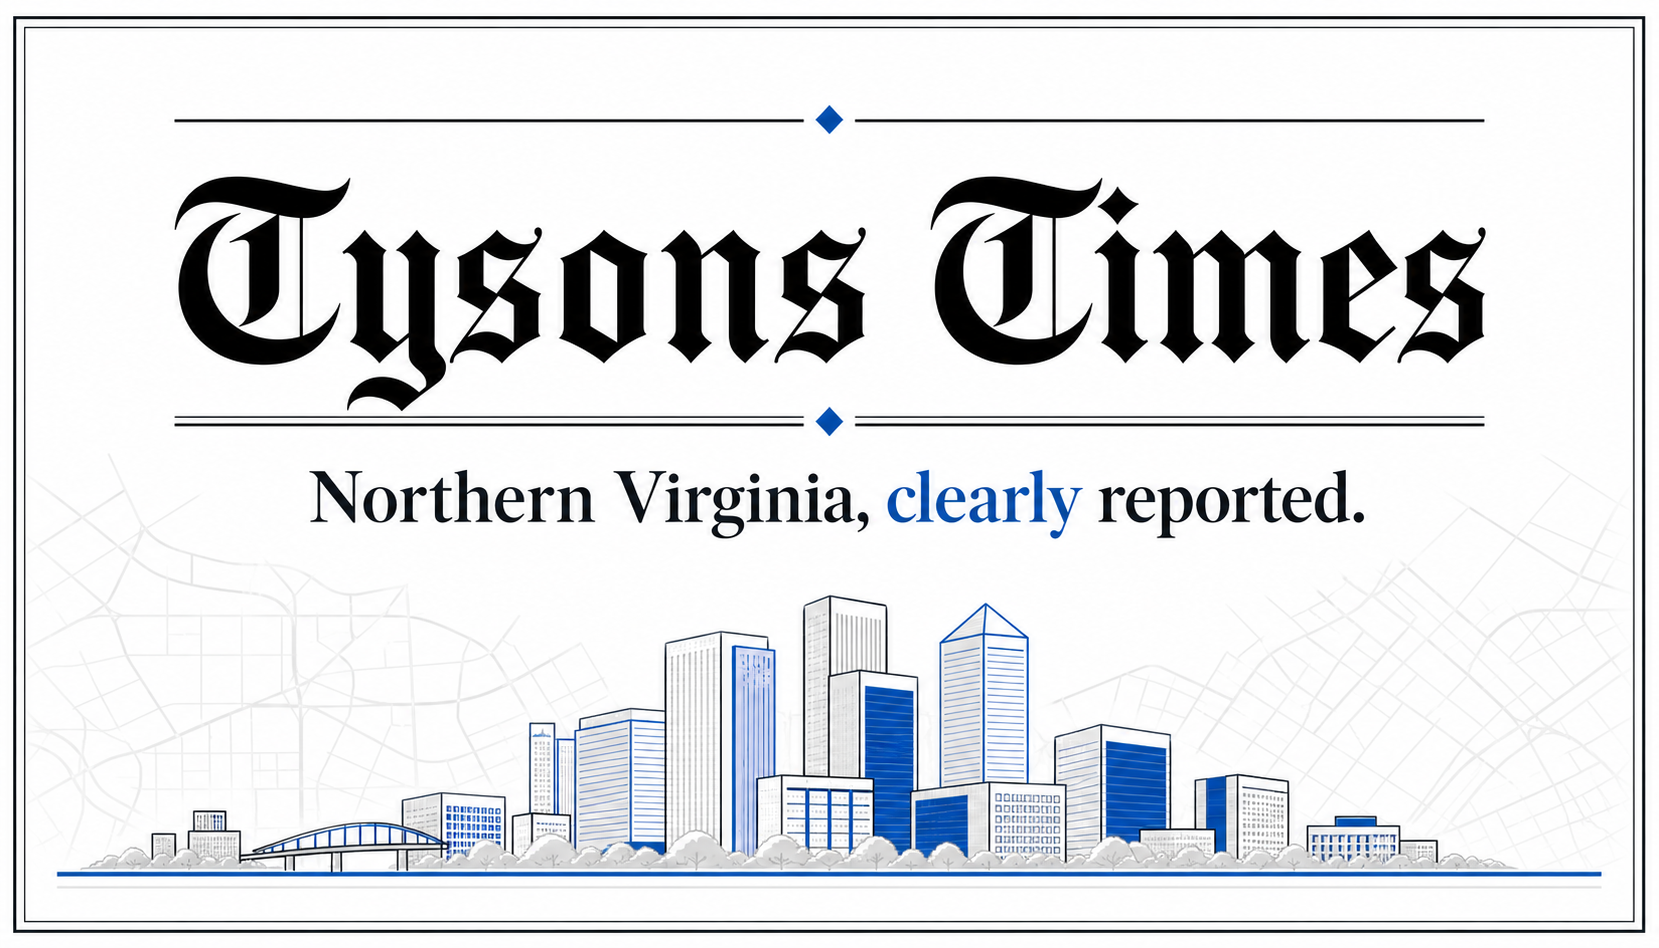
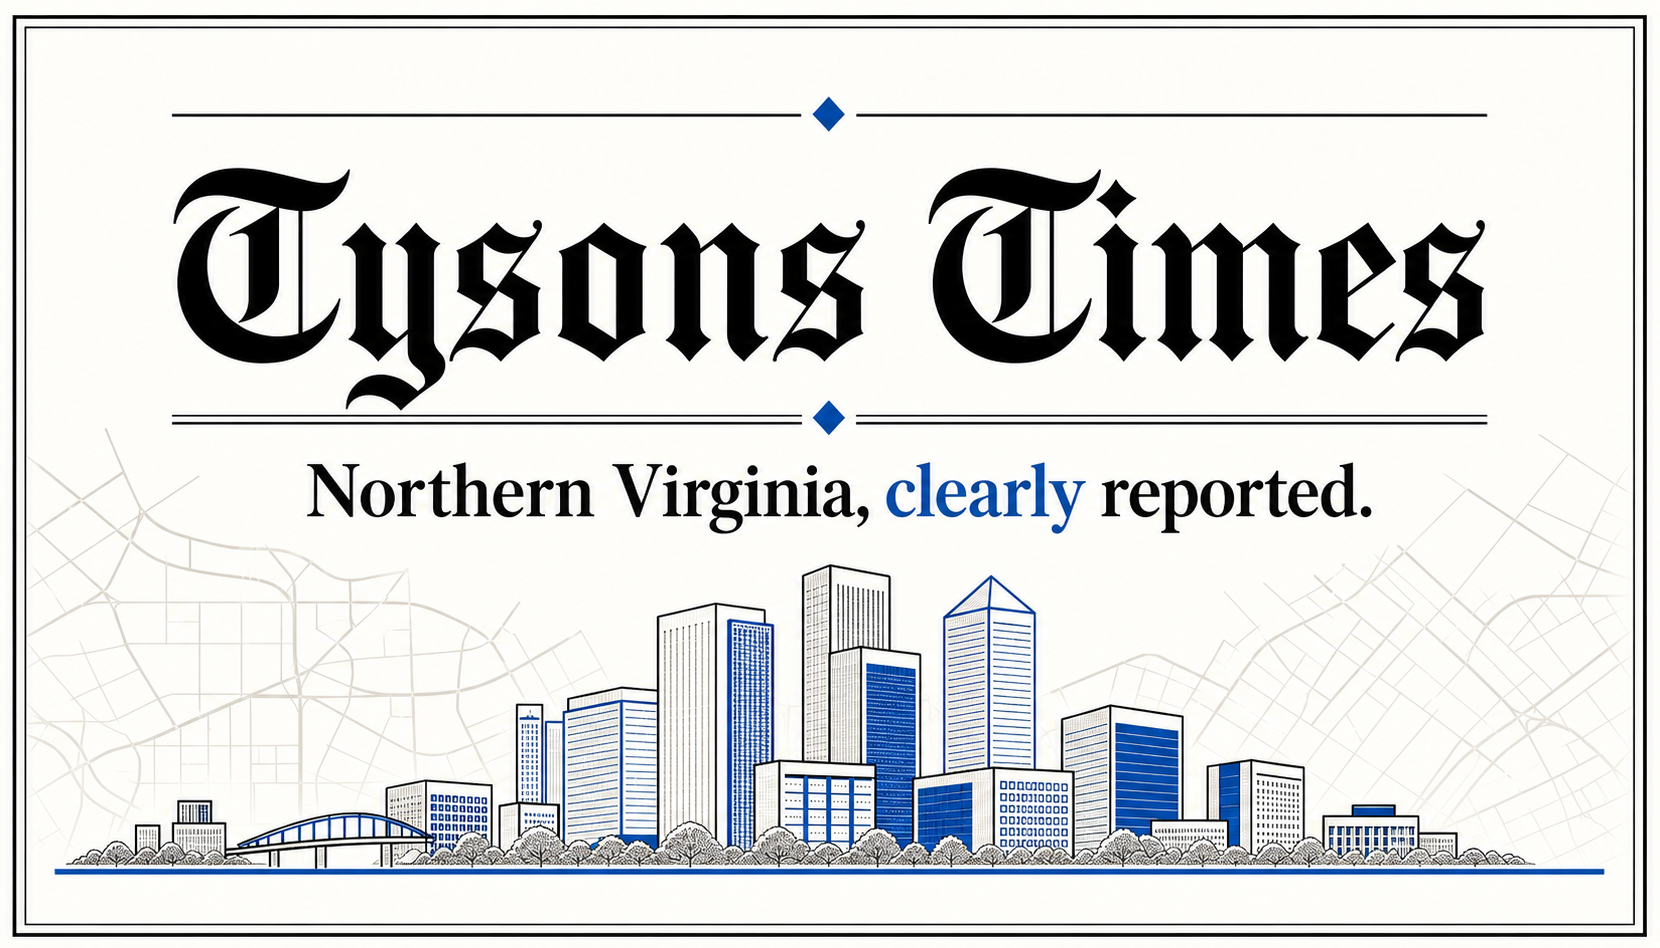
Polish Tysons Times brand system

diff --git a/assets/newspaper.css b/assets/newspaper.css
@@ -4906,3 +4906,193 @@ html[data-site-theme="dark"] .page-shell #main-content .newsletter-preview {
     transform: none;
   }
 }
+
+/* Brand system — one voice, one accent, and a more distinctive local signature. */
+@media screen {
+  .page-shell {
+    --site-blue: #0b57c7;
+    --site-soft-blue: #edf4ff;
+    --site-bg: #fbfaf7;
+    --site-surface: #ffffff;
+    --site-subtle: #f3f1ec;
+    --site-line: #d9d7d1;
+    background: var(--site-bg);
+  }
+
+  body:has(.page-shell),
+  .newspaper,
+  .site-header {
+    background: var(--site-bg);
+  }
+
+  .site-wordmark {
+    display: inline-flex;
+    align-items: baseline;
+    gap: 0.08em;
+    color: inherit;
+    font-family: var(--site-masthead);
+    letter-spacing: -0.055em;
+    line-height: 0.82;
+  }
+
+  .site-wordmark-accent {
+    color: var(--site-blue);
+  }
+
+  .site-wordmark--compact {
+    font-size: 2rem;
+  }
+
+  .site-brand::before {
+    display: block;
+    margin-bottom: 13px;
+    color: var(--site-blue);
+    content: "INDEPENDENT  ·  EST. 2026";
+    font-family: var(--site-sans);
+    font-size: 0.56rem;
+    font-weight: 800;
+    letter-spacing: 0.18em;
+  }
+
+  .site-brand p {
+    display: flex;
+    align-items: center;
+    justify-content: center;
+    gap: 0.24em;
+    font-size: 0.78rem;
+  }
+
+  .site-brand p::before,
+  .site-brand p::after {
+    width: 32px;
+    height: 1px;
+    background: var(--site-line);
+    content: "";
+  }
+
+  .site-brand p strong {
+    color: var(--site-blue);
+    font-weight: 650;
+  }
+
+  .site-masthead-meta {
+    font-weight: 700;
+    letter-spacing: 0.045em;
+    text-transform: uppercase;
+  }
+
+  .site-section-row > a.is-active::after {
+    position: absolute;
+    right: 0;
+    bottom: -4px;
+    left: 0;
+    height: 3px;
+    background: var(--site-blue);
+    content: "";
+  }
+
+  .home-eyebrow {
+    display: flex;
+    align-items: center;
+    gap: 7px;
+    color: var(--site-blue);
+    font-size: 0.62rem;
+    letter-spacing: 0.08em;
+    text-decoration: none;
+    text-transform: uppercase;
+  }
+
+  .home-eyebrow::before {
+    width: 6px;
+    height: 6px;
+    background: currentColor;
+    content: "";
+    transform: rotate(45deg);
+  }
+
+  .home-section-heading {
+    position: relative;
+  }
+
+  .home-section-heading::before {
+    position: absolute;
+    top: -4px;
+    left: 0;
+    width: 72px;
+    height: 4px;
+    background: var(--site-blue);
+    content: "";
+  }
+
+  .home-rail-title,
+  .home-most-read h2 {
+    text-decoration: none;
+  }
+
+  .home-rail-title::after {
+    color: var(--site-blue);
+    content: "  /  Viewpoint";
+    font-family: var(--site-sans);
+    font-size: 0.55rem;
+    font-weight: 800;
+    letter-spacing: 0.07em;
+    text-transform: uppercase;
+  }
+
+  .home-briefing-band {
+    border: 0;
+    border-left: 4px solid var(--site-blue);
+    border-radius: 0;
+    background:
+      linear-gradient(90deg, color-mix(in srgb, var(--site-blue) 5%, transparent), transparent 42%),
+      var(--site-soft-blue);
+  }
+
+  .home-briefing-band > a::after,
+  .home-newsletter > a::after {
+    padding-left: 8px;
+    content: "→";
+  }
+
+  .home-newsletter {
+    border-top: 1px solid color-mix(in srgb, var(--site-blue) 35%, var(--site-line));
+    background:
+      linear-gradient(115deg, var(--site-soft-blue), color-mix(in srgb, var(--site-bg) 82%, var(--site-soft-blue)));
+  }
+
+  .home-newsletter b {
+    color: var(--site-blue);
+    font-family: var(--site-sans);
+    font-size: 0.65rem;
+    letter-spacing: 0.11em;
+    text-transform: uppercase;
+  }
+
+  .site-footer-mark .site-wordmark {
+    color: #ffffff;
+  }
+
+  .site-footer-mark .site-wordmark-accent {
+    color: #8eb9ff;
+  }
+}
+
+@media screen and (max-width: 600px) {
+  .site-wordmark--compact {
+    font-size: 1.6rem;
+  }
+
+  .site-brand::before {
+    margin-bottom: 10px;
+    font-size: 0.48rem;
+  }
+
+  .site-brand p {
+    font-size: 0.61rem;
+  }
+
+  .site-brand p::before,
+  .site-brand p::after {
+    width: 18px;
+  }
+}

diff --git a/public/privacy/index.html b/public/privacy/index.html
@@ -21,13 +21,13 @@
 
 
 
-    <meta name="twitter:card" content="summary" />
+    <meta name="twitter:card" content="summary_large_image" />
     <meta name="twitter:title" content="Privacy Policy | Tysons Times" />
     <meta name="twitter:description" content="How Tysons Times handles reader data, browser preferences, third-party requests, cookies, and advertising." />
-
-
-
-
+    <meta name="twitter:image" content="https://tysonstimes.org/og.png" />
+    <meta name="twitter:image:alt" content="Tysons Times — Northern Virginia, clearly reported." />
+    <meta property="og:image" content="https://tysonstimes.org/og.png" />
+    <meta property="og:image:alt" content="Tysons Times — Northern Virginia, clearly reported." />
     <link rel="canonical" href="https://tysonstimes.org/privacy/" />
     <link rel="icon" type="image/svg+xml" href="/favicon.svg" />
     <link rel="alternate" type="application/rss+xml" href="/feed.xml" title="Tysons Times RSS" />
@@ -277,7 +277,7 @@
           <span>tysonstimes.org</span>
         </div>
         <h1><a href="/">Tysons Times</a></h1>
-        <p class="subtitle">Local reporting for Tysons, Vienna, McLean, Dunn Loring, Falls Church, and the Silver Line corridor</p>
+        <p class="subtitle">Northern Virginia, clearly reported.</p>
         <nav class="static-nav" aria-label="Static site index"><a href="/sections/local/">Local</a><a href="/sections/civic/">Civic Desk</a><a href="/sections/schools/">Schools</a><a href="/sections/business/">Business</a><a href="/sections/culture/">Culture</a><a href="/sections/sports/">Sports</a><a href="/sections/opinion/">Opinion</a><a href="/archive/">Archive</a><a href="/briefs/">Briefs</a><a href="/corrections/">Corrections</a><a href="/about/">About</a><a href="/privacy/">Privacy Policy</a></nav>
       </header>
       <main class="content">
@@ -311,7 +311,7 @@
         <a class="open-app" href="/#/privacy">Open interactive edition</a>
       </main>
       <footer>
-        <span>Tysons Times - Independent local newspaper for Tysons, Virginia</span>
+        <span>Tysons Times · Independent local journalism for Northern Virginia</span>
         <span><a href="/sitemap.xml">Sitemap</a> / <a href="/llms.txt">LLM index</a> / <a href="/feed.xml">RSS</a></span>
       </footer>
     </div>

diff --git a/src/components/NewspaperLayout.jsx b/src/components/NewspaperLayout.jsx
@@ -192,7 +192,7 @@ function Masthead({ preferences, route }) {
             Search
           </button>
         </div>
-        {isArticle ? <HoverLink className="site-utility-brand" href={pagePath("home")}>{site.name}</HoverLink> : null}
+        {isArticle ? <Wordmark compact /> : null}
         <div className="site-account-actions">
           <button
             className="site-preference-button"
@@ -213,11 +213,11 @@ function Masthead({ preferences, route }) {
           <span>{site.location}</span>
         </div>
         <div className="site-brand">
-          <div className="site-name"><HoverLink href={pagePath("home")}>{site.name}</HoverLink></div>
-          <p>What’s Happening Around the Corner</p>
+          <div className="site-name"><Wordmark /></div>
+          <p>Northern Virginia, <strong>clearly reported.</strong></p>
         </div>
         <div className="site-masthead-meta site-masthead-meta--right">
-          <span>{site.volume}</span>
+          <span>{site.edition}</span>
           {weather ? <span>{weather.temp}&deg; {weather.label}</span> : <span>Independent local news</span>}
         </div>
       </div> : null}
@@ -271,8 +271,8 @@ function Footer() {
     <footer className="site-footer">
       <div className="content-shell site-footer-inner">
         <div>
-          <HoverLink className="site-footer-mark" href={pagePath("home")}>{site.name}</HoverLink>
-          <p>Northern Virginia, clearly reported.</p>
+          <div className="site-footer-mark"><Wordmark /></div>
+          <p>{site.tagline}</p>
         </div>
         <nav aria-label="Footer">
           <HoverLink href={pagePath("about")}>About</HoverLink>
@@ -313,5 +313,18 @@ export function NewspaperLayout({ children, route }) {
         </div>
       </div>
     </div>
+  );
+}
+
+function Wordmark({ compact = false }) {
+  return (
+    <HoverLink
+      className={compact ? "site-utility-brand site-wordmark site-wordmark--compact" : "site-wordmark"}
+      href={pagePath("home")}
+      aria-label={site.name}
+    >
+      <span>Tysons</span>
+      <span className="site-wordmark-accent">Times</span>
+    </HoverLink>
   );
 }

diff --git a/index.html b/index.html
@@ -28,7 +28,7 @@
     <meta property="og:site_name" content="Tysons Times" />
     <meta property="og:locale" content="en_US" />
     <meta property="og:type" content="website" />
-    <meta property="og:title" content="Tysons Times | Local News for Tysons, Virginia" />
+    <meta property="og:title" content="Tysons Times | Northern Virginia, Clearly Reported" />
     <meta
       property="og:description"
       content="Independent local reporting for Tysons, Vienna, McLean, Dunn Loring, Falls Church, Fairfax County, and the Silver Line corridor."
@@ -37,18 +37,18 @@
     <meta property="og:image" content="https://tysonstimes.org/og.png" />
     <meta property="og:image:alt" content="Tysons Times — Northern Virginia, clearly reported." />
     <meta name="twitter:card" content="summary_large_image" />
-    <meta name="twitter:title" content="Tysons Times | Local News for Tysons, Virginia" />
+    <meta name="twitter:title" content="Tysons Times | Northern Virginia, Clearly Reported" />
     <meta
       name="twitter:description"
       content="Independent local reporting for Tysons, Virginia and nearby Northern Fairfax County neighborhoods."
     />
     <meta name="twitter:image" content="https://tysonstimes.org/og.png" />
-    <title>Tysons Times | Local News for Tysons, Virginia</title>
+    <title>Tysons Times | Northern Virginia, Clearly Reported</title>
     <link rel="canonical" href="https://tysonstimes.org/" />
     <link rel="preconnect" href="https://fonts.googleapis.com" />
     <link rel="preconnect" href="https://fonts.gstatic.com" crossorigin />
     <link
-      href="https://fonts.googleapis.com/css2?family=Libre+Franklin:ital,wght@0,400;0,500;0,600;0,700;0,800;1,400&amp;family=Newsreader:opsz,wght@6..72,400;6..72,500;6..72,600;6..72,700&amp;family=UnifrakturCook:wght@700&amp;display=swap"
+      href="https://fonts.googleapis.com/css2?family=Libre+Franklin:ital,wght@0,400;0,500;0,600;0,700;0,800;1,400&amp;family=Newsreader:opsz,wght@6..72,400;6..72,500;6..72,600;6..72,700;6..72,800&amp;display=swap"
       rel="stylesheet"
     />
     <link rel="icon" type="image/svg+xml" href="./favicon.svg" />

diff --git a/src/pages/HomePage.jsx b/src/pages/HomePage.jsx
@@ -147,11 +147,11 @@ export function HomePage() {
 
       <section className="home-briefing-band">
         <div>
-          <span>THE LOCAL BRIEFING</span>
-          <h2>News that starts with where you live.</h2>
-          <p>A clear, independent view of the people and decisions shaping Northern Virginia.</p>
+          <span>THE TYSONS BRIEFING</span>
+          <h2>What changed. Who decided. Why it matters.</h2>
+          <p>Your concise read on the people and decisions shaping Northern Virginia.</p>
         </div>
-        <HoverLink href={pagePath("archive")}>Browse latest coverage</HoverLink>
+        <HoverLink href={pagePath("briefs")}>Read the briefing</HoverLink>
       </section>
 
       <section className="home-latest-stream">
@@ -205,11 +205,11 @@ export function HomePage() {
 
       <section className="home-newsletter">
         <div>
-          <b>Independent Local News</b>
-          <h2>Reporting for Tysons and the communities around it.</h2>
-          <p>Learn what we cover and how we approach the local record.</p>
+          <b>Independent by design</b>
+          <h2>Know your corner of Northern Virginia.</h2>
+          <p>Local reporting from Tysons to the Silver Line—and the decisions connecting them.</p>
         </div>
-        <HoverLink href={pagePath("about")}>About Tysons Times</HoverLink>
+        <HoverLink href={pagePath("about")}>Our mission</HoverLink>
       </section>
     </>
   );

diff --git a/src/seo.js b/src/seo.js
@@ -299,7 +299,7 @@ export function buildRouteMeta(route = { page: "home" }, availableArticles = art
   const page = route.page || "home";
   const isHome = page === "home";
   const canonicalUrl = absoluteUrl(pageCleanPath(page));
-  const title = isHome ? `${site.name} | Local News for Tysons, Virginia` : `${pageTitles[page] || "Page"} | ${site.name}`;
+  const title = isHome ? `${site.name} | Northern Virginia, Clearly Reported` : `${pageTitles[page] || "Page"} | ${site.name}`;
   const description = pageDescriptions[page] || site.description;
 
   return {
@@ -307,6 +307,8 @@ export function buildRouteMeta(route = { page: "home" }, availableArticles = art
     description,
     canonicalUrl,
     type: "website",
+    imageUrl: absoluteUrl("/og.png"),
+    imageAlt: "Tysons Times — Northern Virginia, clearly reported.",
     keywords: keywordString([pageTitles[page], description, ...site.coverageArea, ...site.topics]),
     structuredData: buildStructuredData({ page }, { title, description, canonicalUrl }, currentArticles),
   };
